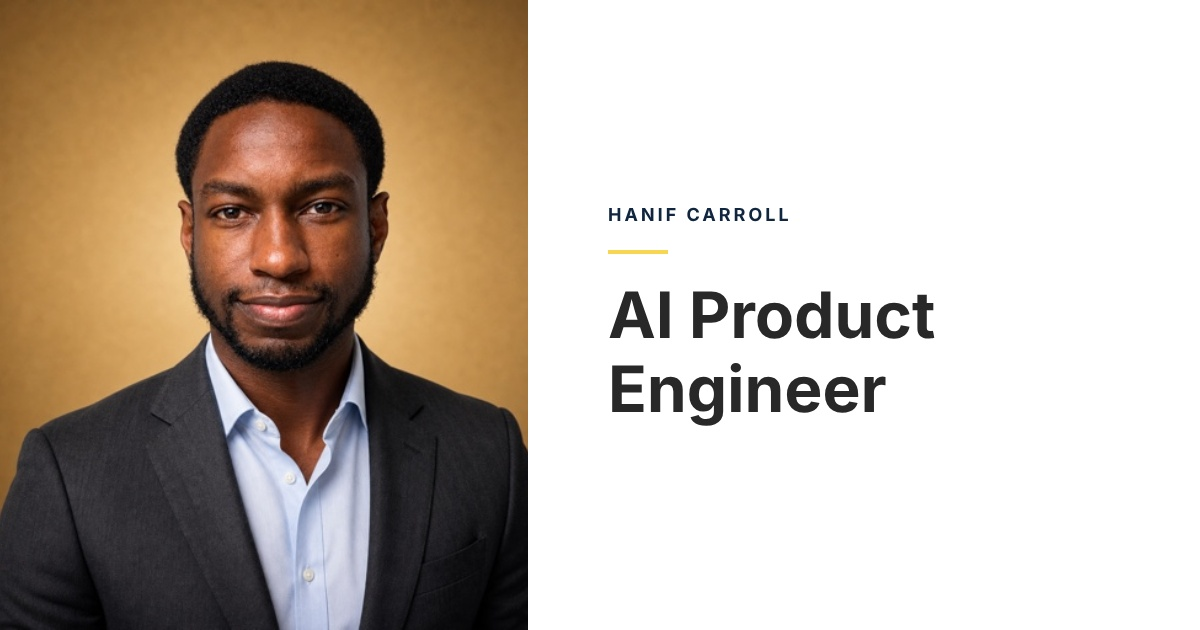
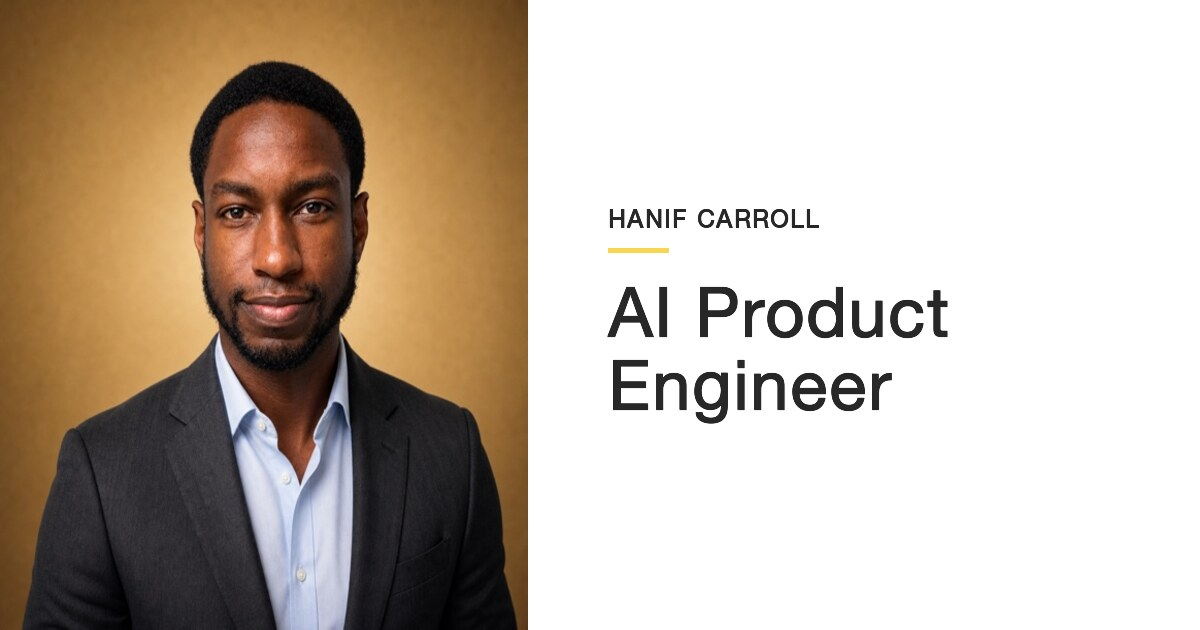
Refine social card typography

diff --git a/docs/seo-changes-and-observations.md b/docs/seo-changes-and-observations.md
@@ -6,10 +6,11 @@ This file tracks Search Console observations, SEO decisions, and follow-up check
 
 ### Homepage Social Preview Refresh
 
-- Replaced the damaged cutout social preview with the Pencil-authored Option 1 card at `/img/social-card-pencil-2026.jpg`: a 1200 × 630 JPEG using the supplied intact portrait as a rectangular left photo panel, white canvas, navy/charcoal typography, and a restrained yellow accent.
+- Replaced the damaged cutout social preview with the Pencil-authored Option 1 card at `/img/social-card-pencil-2026.jpg`: a 1200 × 630 JPEG using the supplied intact portrait as a rectangular left photo panel, white canvas, charcoal typography, and a restrained gold accent.
 - Kept the homepage document title `Hanif Carroll | AI Product Engineer for B2B SaaS` while setting social title/description to `Hanif Carroll, AI Product Engineer` and `I build and ship B2B SaaS products, internal tools, and AI workflows.`
 - Added default OG/Twitter image alt text, JPEG type, site name, and preserved the existing default image dimensions and page-specific image overrides.
-- Verified the Pencil `.pen` source, JPEG dimensions and size, and visually inspected the exported card: the supplied portrait is intact, rectangular, background-retained, and shows the complete head and hairline without masking artifacts or halo; confirmed the production build plus generated homepage metadata.
+- Removed the remaining legacy navy from the card name in both the Pencil source and exported JPEG, preserving its dimensions, portrait, and metadata.
+- Verified the Pencil `.pen` source, JPEG dimensions and size, and visually inspected the exported card: the supplied portrait is intact, rectangular, background-retained, and shows the complete head and hairline without masking artifacts or halo; refined the typography to Helvetica Neue with a larger name, grouped identity spacing, and a 68 px title; confirmed the production build plus generated homepage metadata.
 - After deployment, refresh/check the WhatsApp preview and use Meta Sharing Debugger to fetch the homepage again; confirm both caches show the new versioned Pencil card and approved metadata.
 
 ### Product Usage Scoring Homepage Removal
